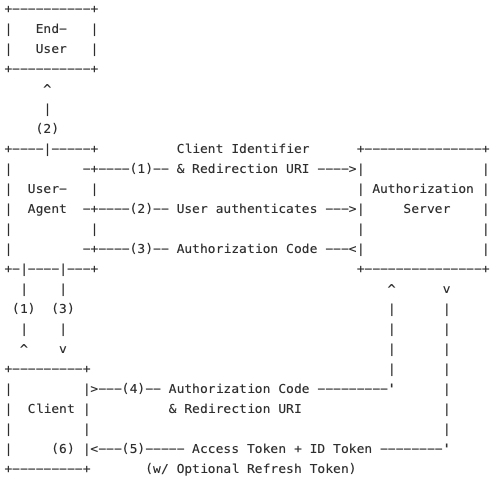
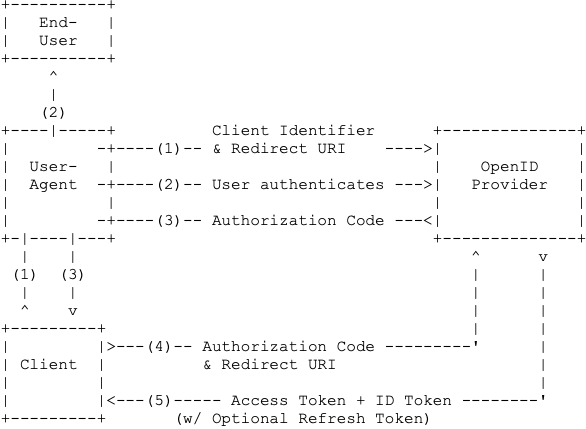
Updated authorization code flow image

diff --git a/pub/img/authorization-code-flow.html b/pub/img/authorization-code-flow.html
@@ -1,0 +1,37 @@
+<html>
+<head>
+<style>
+  pre {
+    font-family:'Courier New', Courier, monospace;
+  }
+</style>
+</head>
+<body>
+<pre>
+   +----------+
+   |   End-   |
+   |   User   |
+   +----------+
+        ^
+        |
+       (2)
+   +----|-----+          Client Identifier      +--------------+
+   |         -+----(1)-- & Redirect URI    ---->|              |
+   |  User-   |                                 |    OpenID    |
+   |  Agent  -+----(2)-- User authenticates --->|   Provider   |
+   |          |                                 |              |
+   |         -+----(3)-- Authorization Code ---<|              |
+   +-|----|---+                                 +--------------+
+     |    |                                         ^      v
+    (1)  (3)                                        |      |
+     |    |                                         |      |
+     ^    v                                         |      |
+   +---------+                                      |      |
+   |         |>---(4)-- Authorization Code ---------'      |
+   | Client  |          & Redirect URI                     |
+   |         |                                             |
+   |         |<---(5)--- Access Token + ID Token ----------'
+   +---------+         (w/ Optional Refresh Token)
+</pre>
+</body>
+</html>
